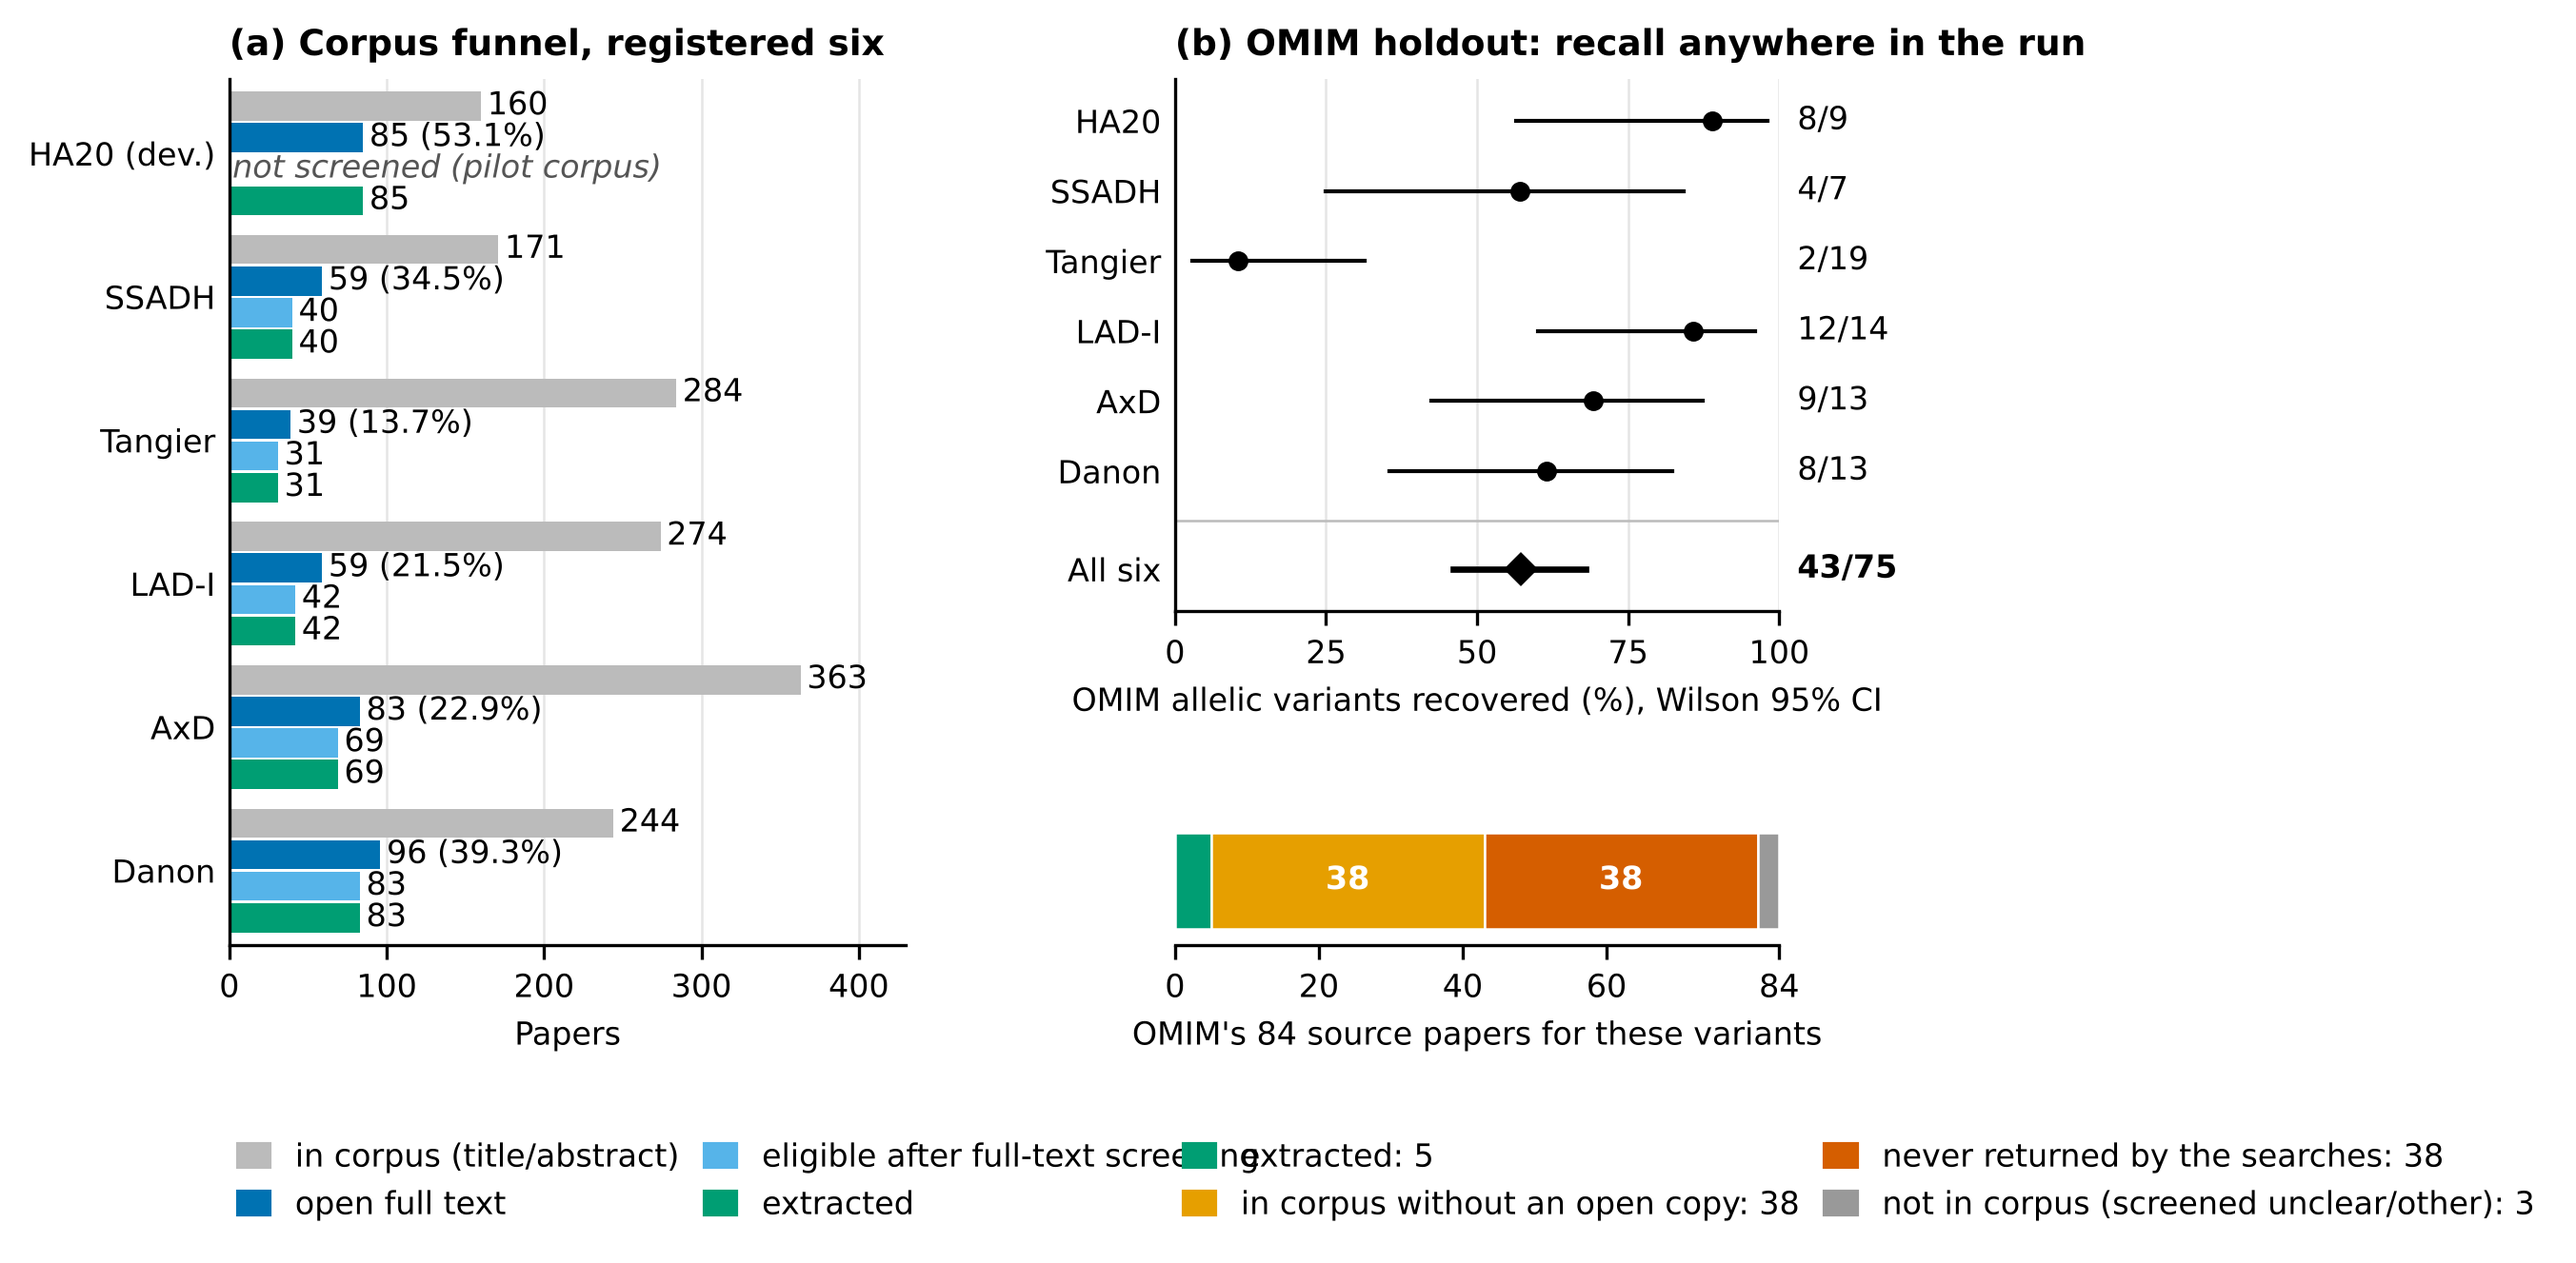
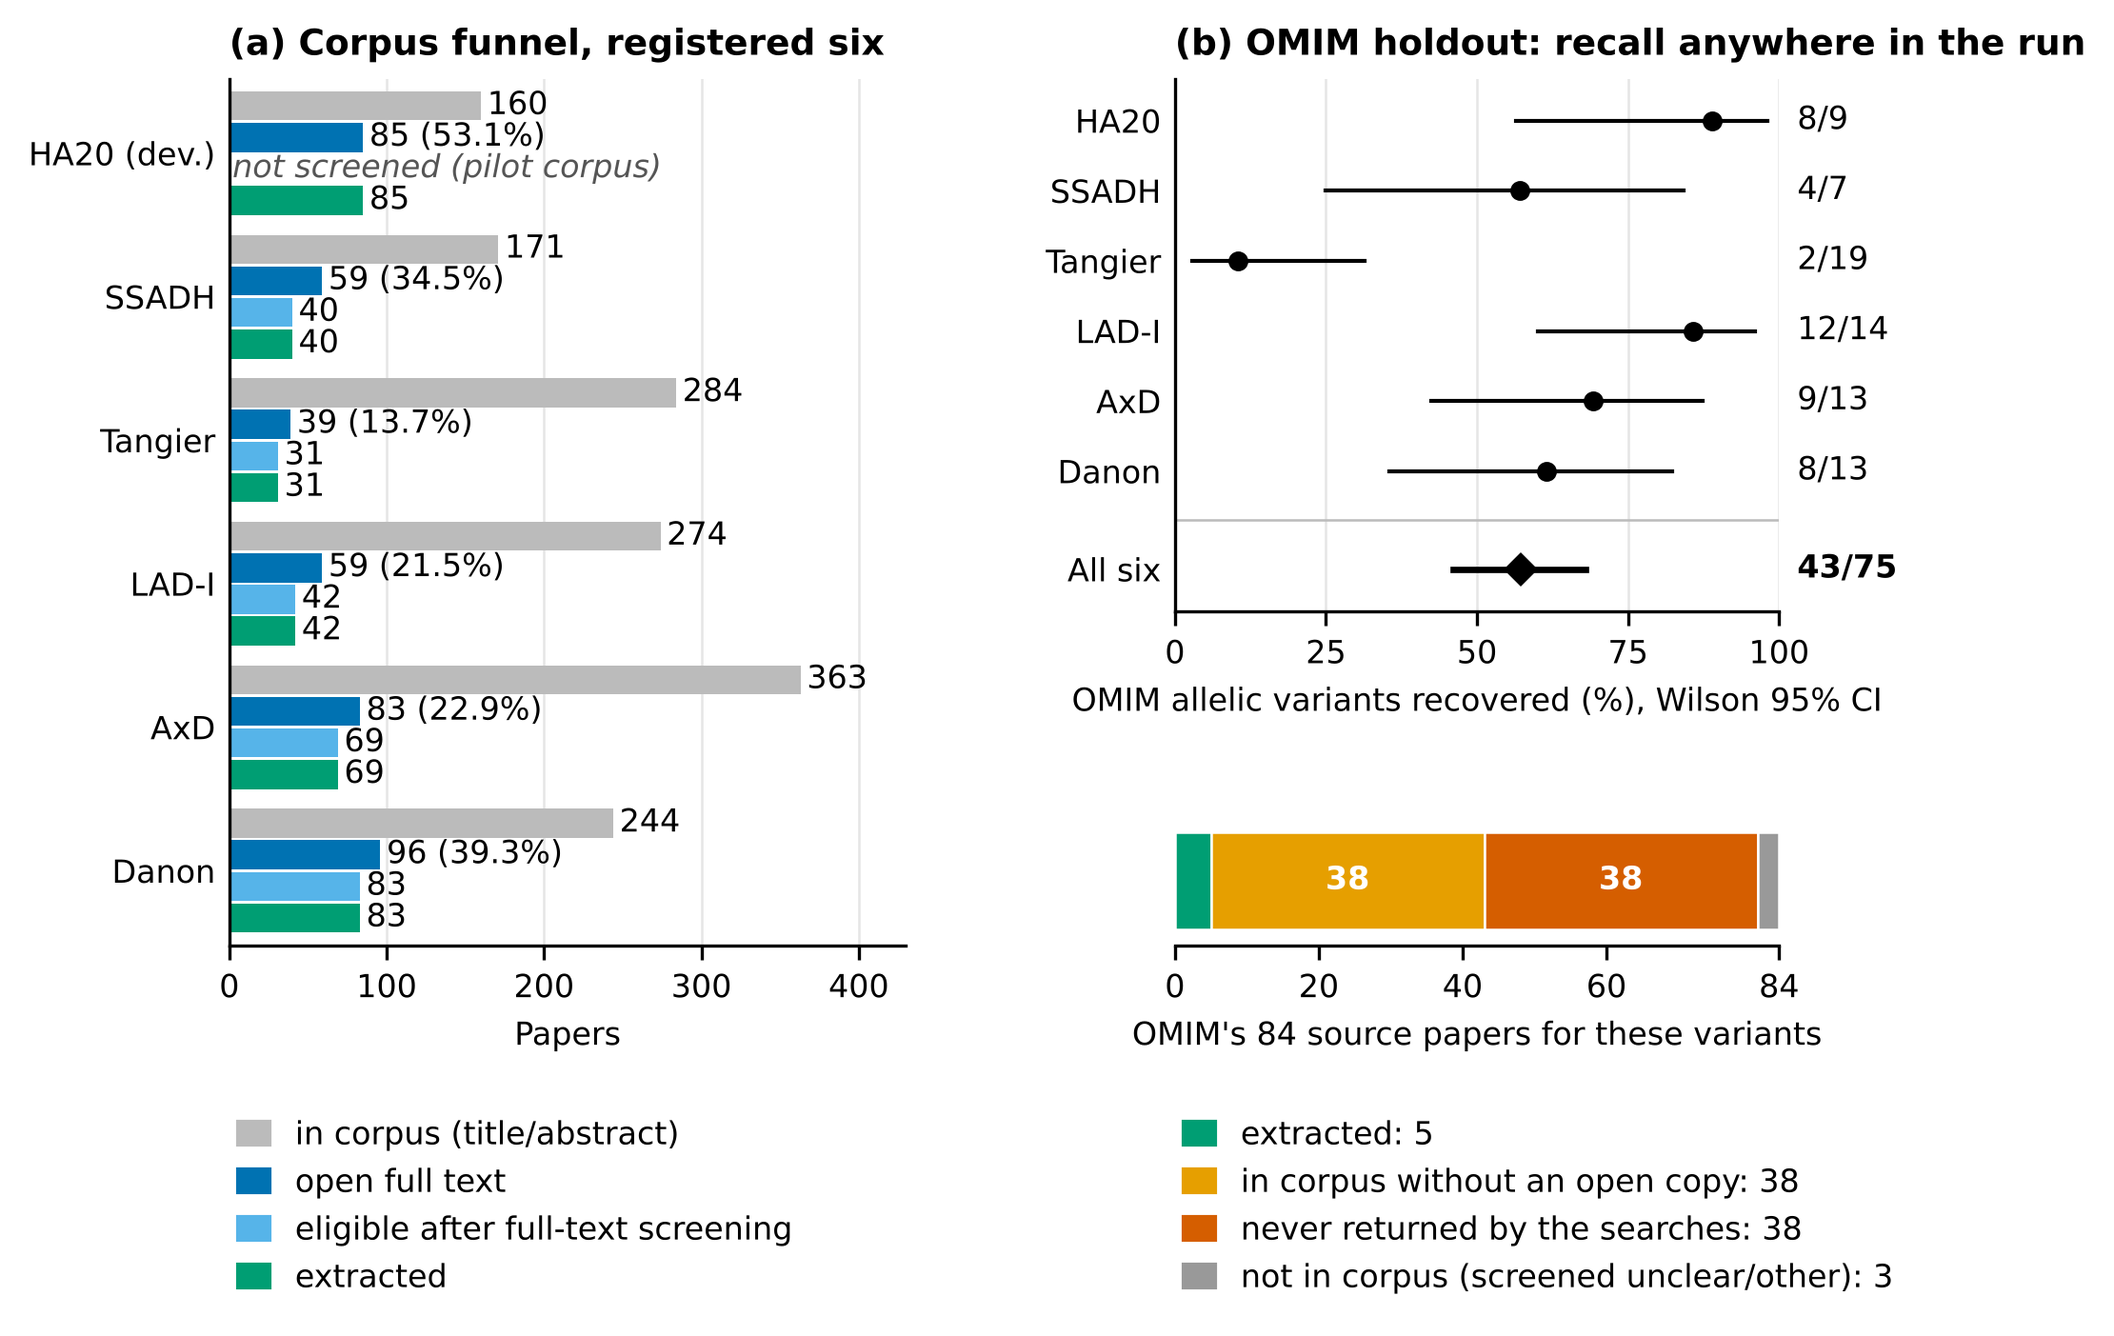
Paper v4 run_po1: three figures done (gatekeeper by run, ClinVar concordance, access constraint)
Claude-Session: https://claude.ai/code/session_015Q6ZxHWkQ4QYcUm5kPJ1mX

diff --git a/reports/paper_v4/run_po1/plots/fig_human_assessment/plot.py b/reports/paper_v4/run_po1/plots/fig_human_assessment/plot.py
@@ -1,0 +1,221 @@
+"""fig_human_assessment: design diagram of the D-55 human assessment (experimental_log.md §4).
+
+Design only: no results, no rater identities. Every number is copied from the log
+(§4, §4.1, §4.2, §4.3, §7). Coordinates are in inches on a 7 x 3.94 in canvas.
+"""
+import math
+import os
+
+import matplotlib
+
+matplotlib.use("Agg")
+import matplotlib.pyplot as plt
+from matplotlib.patches import FancyBboxPatch, Polygon, Circle, FancyArrowPatch
+
+W, H = 7.0, 3.94
+FS = 8          # body text, pt
+FS_HEAD = 9     # band titles
+DARK = "#333333"
+ARROW = "#444444"
+
+C = {
+    "blue": "#0072B2", "sky": "#56B4E9", "orange": "#E69F00", "purple": "#CC79A7",
+    "verm": "#D55E00", "green": "#009E73", "black": "#000000",
+}
+
+
+def tint(hex_color, f):
+    """Mix a colour with white (f = share of white)."""
+    h = hex_color.lstrip("#")
+    r, g, b = (int(h[i:i + 2], 16) for i in (0, 2, 4))
+    r, g, b = (round(v + (255 - v) * f) for v in (r, g, b))
+    return f"#{r:02x}{g:02x}{b:02x}"
+
+
+plt.rcParams.update({"font.family": "sans-serif", "font.sans-serif": ["DejaVu Sans"],
+                     "font.size": FS})
+fig = plt.figure(figsize=(W, H), facecolor="white")
+ax = fig.add_axes([0, 0, 1, 1])
+ax.set_xlim(0, W)
+ax.set_ylim(0, H)
+ax.axis("off")
+
+
+def box(x0, y0, x1, y1, edge, fill_f=0.88, lw=1.0, pad=0.04, z=2):
+    p = FancyBboxPatch((x0 + pad, y0 + pad), x1 - x0 - 2 * pad, y1 - y0 - 2 * pad,
+                       boxstyle=f"round,pad={pad},rounding_size=0.06",
+                       fc=tint(edge, fill_f), ec=edge, lw=lw, zorder=z)
+    ax.add_patch(p)
+
+
+def txt(x, y, s, size=FS, weight="normal", ha="center", va="center", color=DARK, z=5, ls=1.25):
+    ax.text(x, y, s, fontsize=size, fontweight=weight, ha=ha, va=va, color=color,
+            zorder=z, linespacing=ls)
+
+
+def titled(x0, y0, x1, y1, title, body, edge, gap=0.06):
+    """Box with a bold title line and body text, block centred vertically."""
+    box(x0, y0, x1, y1, edge)
+    n_body = body.count("\n") + 1
+    line = FS * 1.25 / 72.0
+    block = line * (n_body + 1) + gap
+    top = (y0 + y1) / 2 + block / 2
+    xm = (x0 + x1) / 2
+    txt(xm, top - line / 2, title, weight="bold", color=edge if edge != C["black"] else DARK)
+    txt(xm, top - line - gap, body, va="top")
+
+
+def arrow(p0, p1, color=ARROW, lw=1.0, z=3):
+    a = FancyArrowPatch(p0, p1, arrowstyle="-|>", mutation_scale=9, color=color,
+                        lw=lw, shrinkA=0, shrinkB=0, zorder=z)
+    ax.add_patch(a)
+
+
+def line(xs, ys, color=ARROW, lw=1.0, z=3):
+    ax.plot(xs, ys, color=color, lw=lw, zorder=z, solid_capstyle="butt")
+
+
+# ---------------------------------------------------------------- stage bands
+for (y0, y1, title) in [(2.18, 3.92, "Stage 1: Calibration (due 2026-11-22)"),
+                        (0.02, 2.06, "Stage 2: Main assessment")]:
+    band = FancyBboxPatch((0.03, y0), W - 0.06, y1 - y0,
+                          boxstyle="round,pad=0,rounding_size=0.08",
+                          fc="#F4F4F4", ec="#D0D0D0", lw=0.6, zorder=0)
+    ax.add_patch(band)
+    txt(0.12, y1 - 0.12, title, size=FS_HEAD, weight="bold", ha="left")
+
+# ---------------------------------------------------------------- stage 1
+y0s, y1s = 2.28, 3.62
+ym1 = (y0s + y1s) / 2
+
+titled(0.10, y0s, 1.52, y1s, "Reference labels",
+       "PI labels 99 candidate\nclaims from the\nregistered runs, blind\nto the gatekeeper",
+       C["blue"])
+
+titled(1.72, y0s, 3.22, y1s, "Fixed set rule",
+       "(+2 recorded amendments)\n→ 40 claims:\n20 unsupported,\n20 supported,\nfrom 39 papers",
+       C["blue"])
+
+# nine identical rater icons R1..R9
+rx0, rx1 = 3.42, 4.80
+box(rx0, y0s, rx1, y1s, C["sky"], fill_f=0.85)
+rxm = (rx0 + rx1) / 2
+txt(rxm, y1s - 0.17, "9 raters", weight="bold", color="#1f6f99")
+r = 0.115
+sp = 0.31
+gy_top = y1s - 0.42
+for i in range(9):
+    cx = rxm + (i % 3 - 1) * sp
+    cy = gy_top - (i // 3) * sp
+    ax.add_patch(Circle((cx, cy), r, fc="white", ec=C["sky"], lw=1.0, zorder=4))
+    txt(cx, cy, f"R{i + 1}", size=FS - 0.5 if False else FS, z=6)
+txt(rxm, y0s + 0.20, "same 40 claims,\neach in own order", va="center")
+
+# floor diamond
+dx, dy, hw, hh = 5.85, ym1, 0.98, 0.66
+ax.add_patch(Polygon([(dx - hw, dy), (dx, dy + hh), (dx + hw, dy), (dx, dy - hh)],
+                     closed=True, fc=tint(C["orange"], 0.82), ec=C["orange"], lw=1.0, zorder=2))
+txt(dx, dy + 0.27, "Floor", weight="bold", color="#9a6400")
+txt(dx, dy - 0.07, "≥15 of 20 unsupported caught\nAND\n≥18 of 20 supported passed",
+    va="center")
+
+for xa, xb in [(1.52, 1.72), (3.22, 3.42), (4.80, dx - hw)]:
+    arrow((xa, ym1), (xb, ym1))
+
+# ---------------------------------------------------------------- connector to stage 2
+dec_x0, dec_x1 = 0.10, 1.08
+dec_y0, dec_y1 = 0.62, 1.40
+xm_dec = (dec_x0 + dec_x1) / 2
+line([dx, dx], [dy - hh, 2.12])
+line([dx, xm_dec], [2.12, 2.12])
+arrow((xm_dec, 2.12), (xm_dec, dec_y1 - 0.0))
+
+# ---------------------------------------------------------------- stage 2
+titled(dec_x0, dec_y0, dec_x1, dec_y1, "PI decides",
+       "after calibration:\nwho goes on;\nPlan A or Plan B", C["purple"])
+
+pa = (1.24, 1.02, 2.30, 1.80)
+pb = (1.24, 0.12, 2.30, 0.90)
+titled(*pa, "Plan A",
+       "registered six\n250 audit claims\n50 ClinVar misses\n214 gap candidates", C["blue"])
+titled(*pb, "Plan B",
+       "all twelve\n527 audit claims\n146 ClinVar misses\n269 gap candidates", C["verm"])
+
+ym_a = (pa[1] + pa[3]) / 2
+ym_b = (pb[1] + pb[3]) / 2
+ym_dec = (dec_y0 + dec_y1) / 2
+# branch: decision -> Plan A / Plan B
+xj = 1.16
+line([dec_x1, xj], [ym_dec, ym_dec])
+line([xj, xj], [ym_b, ym_a])
+arrow((xj, ym_a), (pa[0] + 0.0, ym_a))
+arrow((xj, ym_b), (pb[0] + 0.0, ym_b))
+
+# three tracks
+tx0, tx1 = 2.50, 5.74
+lanes = {
+    "audit": (1.00, 1.84),
+    "triage": (0.58, 0.94),
+    "adj": (0.10, 0.52),
+}
+# collector from the chosen plan to the three tracks
+xc = 2.40
+line([pa[2], xc], [ym_a, ym_a])
+line([pb[2], xc], [ym_b, ym_b])
+lane_mids = {k: (v[0] + v[1]) / 2 for k, v in lanes.items()}
+line([xc, xc], [min(lane_mids.values() | {ym_b}) if False else min(ym_b, *lane_mids.values()),
+                max(ym_a, *lane_mids.values())])
+for k, m in lane_mids.items():
+    arrow((xc, m), (tx0, m))
+
+# (a) audit lane with ring of nine and three overlapping triangles
+a0, a1 = lanes["audit"]
+box(tx0, a0, tx1, a1, C["green"])
+ring_c = (tx0 + 0.42, (a0 + a1) / 2)
+rr = 0.27
+pts = [(ring_c[0] + rr * math.sin(2 * math.pi * i / 9),
+        ring_c[1] + rr * math.cos(2 * math.pi * i / 9)) for i in range(9)]
+for tri in [(0, 2, 5), (1, 5, 7), (3, 7, 0)]:
+    ax.add_patch(Polygon([pts[i] for i in tri], closed=True,
+                         fc=tint(C["green"], 0.55), ec=C["green"], lw=0.8, alpha=0.55, zorder=3))
+for (px, py) in pts:
+    ax.add_patch(Circle((px, py), 0.042, fc="white", ec="#1b6e55", lw=0.9, zorder=4))
+ax_text_x = tx0 + 0.80
+txt(ax_text_x, a1 - 0.10, "(a) Audit", weight="bold", ha="left", va="top", color="#00664a")
+txt(ax_text_x, a1 - 0.25,
+    "Each claim read by 3 raters in rotating, overlapping\n"
+    "groups of three (84 groups with nine raters); equal\n"
+    "loads; every pair shares claims. Script names a\n"
+    "registered pair + tie-breaker per claim.\n"
+    "Rule C: at most 4 of 250 unsupported.",
+    ha="left", va="top")
+
+# (b) triage
+t0, t1 = lanes["triage"]
+box(tx0, t0, tx1, t1, C["orange"])
+txt(tx0 + 0.12, (t0 + t1) / 2, "(b) Triage of ClinVar misses:", weight="bold", ha="left",
+    color="#9a6400")
+txt(tx0 + 1.95, (t0 + t1) / 2, "2 raters per item;\nPI settles differences", ha="left")
+
+# (c) gap adjudication
+g0, g1 = lanes["adj"]
+box(tx0, g0, tx1, g1, C["verm"])
+txt(tx0 + 0.12, (g0 + g1) / 2, "(c) Gap adjudication:", weight="bold", ha="left",
+    color="#a34200")
+txt(tx0 + 1.45, (g0 + g1) / 2,
+    "2 raters per candidate; a third where they\ndiffer on the decision or across the\n"
+    "pathogenic / uncertain line", ha="left")
+
+# collector to sign-off
+xs = 5.84
+fx0, fx1 = 5.96, 6.92
+for k, m in lane_mids.items():
+    line([tx1, xs], [m, m])
+line([xs, xs], [min(lane_mids.values()), max(lane_mids.values())])
+f_mid = lane_mids["triage"]
+arrow((xs, f_mid), (fx0, f_mid))
+titled(fx0, f_mid - 0.55, fx1, f_mid + 0.55, "Sign-off",
+       "panel approval +\nPI sign-off before\nany submission\nrecord (nothing\nsubmitted yet)",
+       C["black"])
+
+fig.savefig(os.environ["PO_OUT"], dpi=300, bbox_inches="tight", facecolor="white")

diff --git a/reports/paper_v4/run_po1/plots/fig_access_constraint/plot.py b/reports/paper_v4/run_po1/plots/fig_access_constraint/plot.py
@@ -141,13 +141,13 @@ for lab, v, col in src_segments:
     left += v
 leg_handles = [plt.Rectangle((0, 0), 1, 1, color=c) for _, _, c in src_segments]
 leg_labels = [f"{lab}: {v}" for lab, v, _ in src_segments]
-# both legends below their panels, tops aligned in figure coordinates
-leg_y = ax.get_position().y0 - 0.15
+# both legends below their panels, one column each, tops aligned (figure coordinates)
+leg_y = ax.get_position().y0 - 0.13
 fig.legend(handles, [s[0] for s in series], loc="upper left",
-           bbox_to_anchor=(ax.get_position().x0 - 0.01, leg_y), ncol=2, frameon=False,
-           handlelength=1.0, columnspacing=0.8, fontsize=8)
+           bbox_to_anchor=(ax.get_position().x0 - 0.01, leg_y), ncol=1, frameon=False,
+           handlelength=1.0, fontsize=8)
 fig.legend(leg_handles, leg_labels, loc="upper left",
-           bbox_to_anchor=(cx.get_position().x0 - 0.01, leg_y), ncol=2, frameon=False,
-           handlelength=1.0, columnspacing=0.8, fontsize=8)
+           bbox_to_anchor=(cx.get_position().x0 - 0.01, leg_y), ncol=1, frameon=False,
+           handlelength=1.0, fontsize=8)
 
 fig.savefig(os.environ["PO_OUT"], dpi=300, bbox_inches="tight", facecolor="white")

diff --git a/reports/paper_v4/run_po1/plots/fig_access_constraint/plan.md b/reports/paper_v4/run_po1/plots/fig_access_constraint/plan.md
@@ -48,7 +48,7 @@ Direct label "k/n" beside each point.
 - in the corpus without an open copy: 38
 - never returned by the searches: 38
 - not in corpus (screened unclear/other): 3
-Segment counts labelled; legend-like labels below the bar.
+Segment counts labelled; legend entries below use the log's wording ("in corpus without an open copy").
 
 ## Style (stylist pass)
 
@@ -62,6 +62,8 @@ Segment counts labelled; legend-like labels below the bar.
   - never returned by the searches: #D55E00 (vermillion)
   - not in corpus (screened unclear/other): #999999 (grey)
   - recall points: #000000, pooled diamond #000000
-- Panel (a) legend at the top (4 entries, one row), no y-grid, light x-grid.
+- Legends (after critic rounds): one column under each panel, tops aligned; panel (a) has 4 entries,
+  panel (b)'s stacked bar has 4 entries with counts ("extracted: 5" etc.); the two 38 segments
+  also carry their count inside. No y-grid, light x-grid. Panel (a) group bars 0.22 units high.
 - Panel titles "(a) ..." and "(b) ..." as short axis titles; no caption or "Figure N" in the image.
 - Top and right spines removed.
